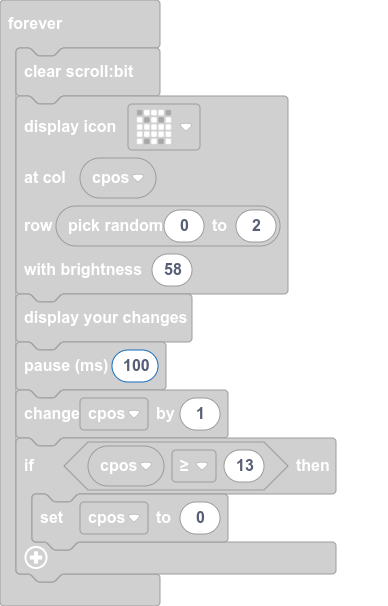
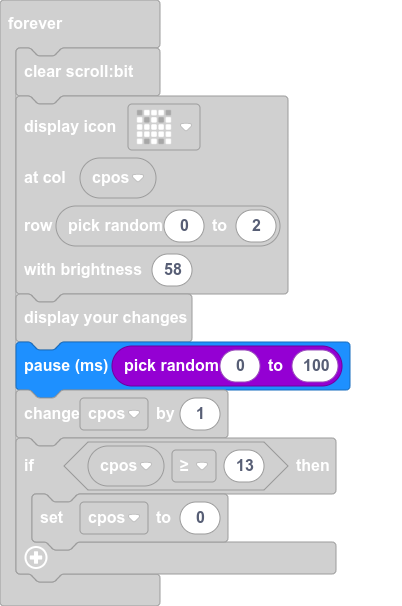
Set random Delay

diff --git a/main.ts b/main.ts
@@ -9,7 +9,7 @@ basic.forever(function () {
     58
     )
     scrollbit.show()
-    basic.pause(100)
+    basic.pause(randint(0, 100))
     cpos += 1
     if (cpos >= 13) {
         cpos = 0
